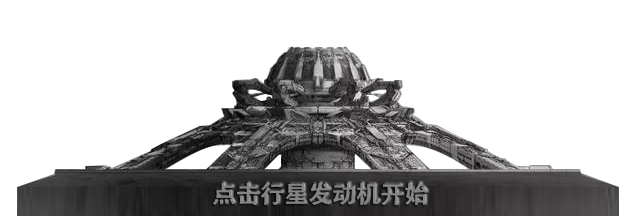
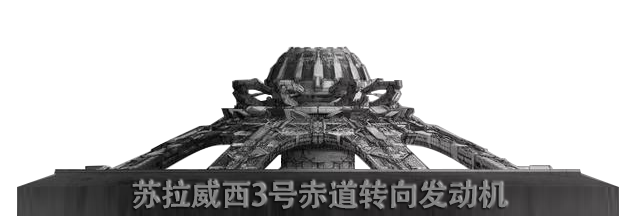
IOS Bug killed

Changed region(s): [[0.1875, 0.8333, 0.8125, 0.9722]]

diff --git a/index.html b/index.html
@@ -35,11 +35,20 @@
 
 		.engine {
 			position: absolute;
-			z-index: 9999;
+			z-index: 998;
 			width: 100%;
-			height: 216px;
+			
 			bottom: 0px;
 			text-align: center;
+		}
+		.banner{position: absolute;
+			z-index: 998;
+			width: 100%;
+			color:rgb(206, 206, 206);
+			font-size: 80px;
+			bottom: 50%;
+			text-align: center;
+
 		}
 	</style>
 	<script> 
@@ -48,7 +57,8 @@
             if(state==0){
                 document.getElementById("ddsound").load();
 				//document.getElementById("ddsound").play();
-                state=1;
+				state=1;
+				document.getElementById("banner").style.display="none";
             }
         }, false);
 	</script> 
@@ -58,6 +68,14 @@
 <body>
     <audio id='ddsound' src='bang.mp3'   align='center' border='0' width='1' height='1' loop='false'></audio>
 	<canvas id="c"></canvas>
+	<div id="banner" class="banner">
+		<p>流浪地球计划</p>
+		<p>苏拉威西3号行星发动机</p>
+		<p>春节十二响</p>
+		<p></p>
+		<p></p>
+		<p>猛击我开始</p>
+	</div>
 	<div class="engine">
 		<img src="engine.png" style="cursor: pointer;"/>
 	</div>
@@ -79,6 +97,11 @@
 				var Pswitch = 0;
 				var bang=600;
 				var stopbang=3800;
+				setTimeout(function () 
+				{
+					document.getElementById("banner").style.display="none";
+				}, 4000);
+
 				soundplay.loop=false;
 				setTimeout(function () {
 					Pswitch = 1;
@@ -167,7 +190,7 @@
 				}, bang);
 				}, stopbang);
 				}, bang);
-				}, 5000);
+				}, 8000);
 			
 				
 
